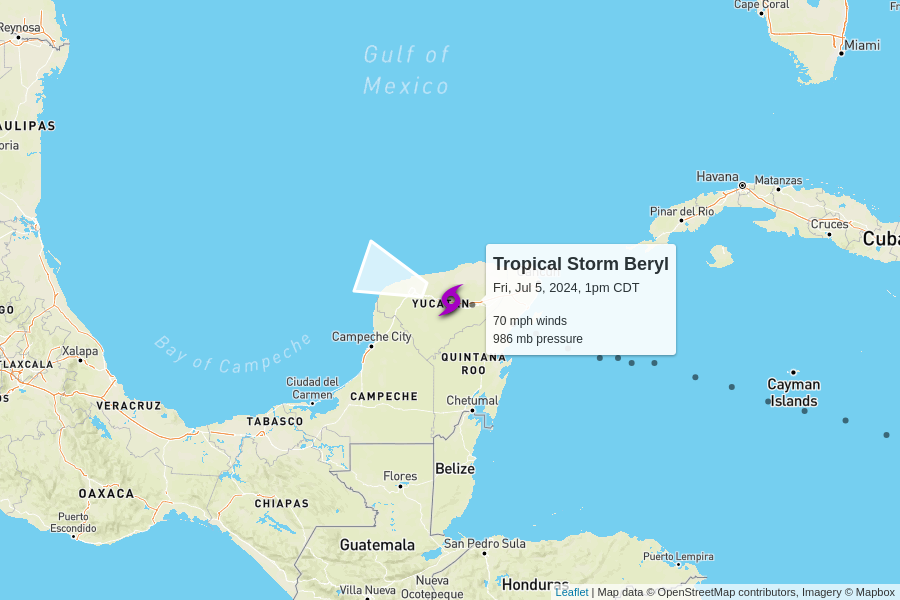
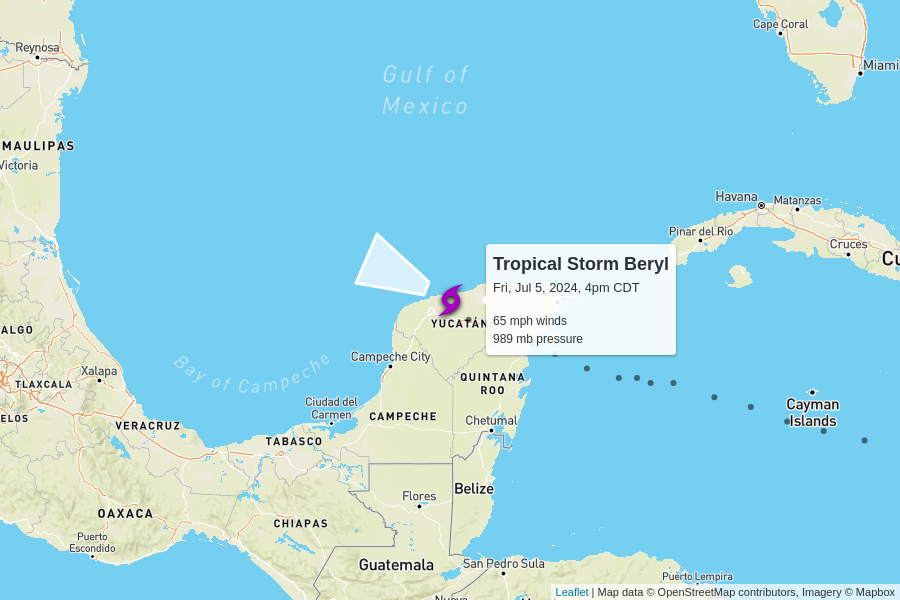
automatic update

diff --git a/docs/index.html b/docs/index.html
@@ -102,7 +102,7 @@
         <td colspan="6" class="storm category-0" >
           <h2>
             Tropical Storm Beryl
-            <p class="updated">last updated <span data-time>2024-07-05T18:00:00.000Z</span></p>
+            <p class="updated">last updated <span data-time>2024-07-05T21:00:00.000Z</span></p>
           </h2>
         </td>
       </tr>
@@ -117,12 +117,12 @@
       </tr>
       <tr>
         <td class="spacer"></td>
-        <td>70 mph<br>-15 mph since last update</td>
-        <td>986 mb<br>+6 mb since last update</td>
+        <td>65 mph<br>-5 mph since last update</td>
+        <td>989 mb<br>+3 mb since last update</td>
         <td>
           15 mph to the west-northwest
           <br/>
-          <span style="display: inline-block; font-size: 1.5em; transform: rotate(290deg);">↑</span>
+          <span style="display: inline-block; font-size: 1.5em; transform: rotate(295deg);">↑</span>
         </td>
         <td><a href="https://raw.githubusercontent.com/mgwalker/atlantic-hurricanes/main/data/csv/AL022024.csv">AL022024.csv</a></td>
         <td><a href="https://www.nhc.noaa.gov/archive/2024/BERYL.shtml?">NHC advisories</a></td>
